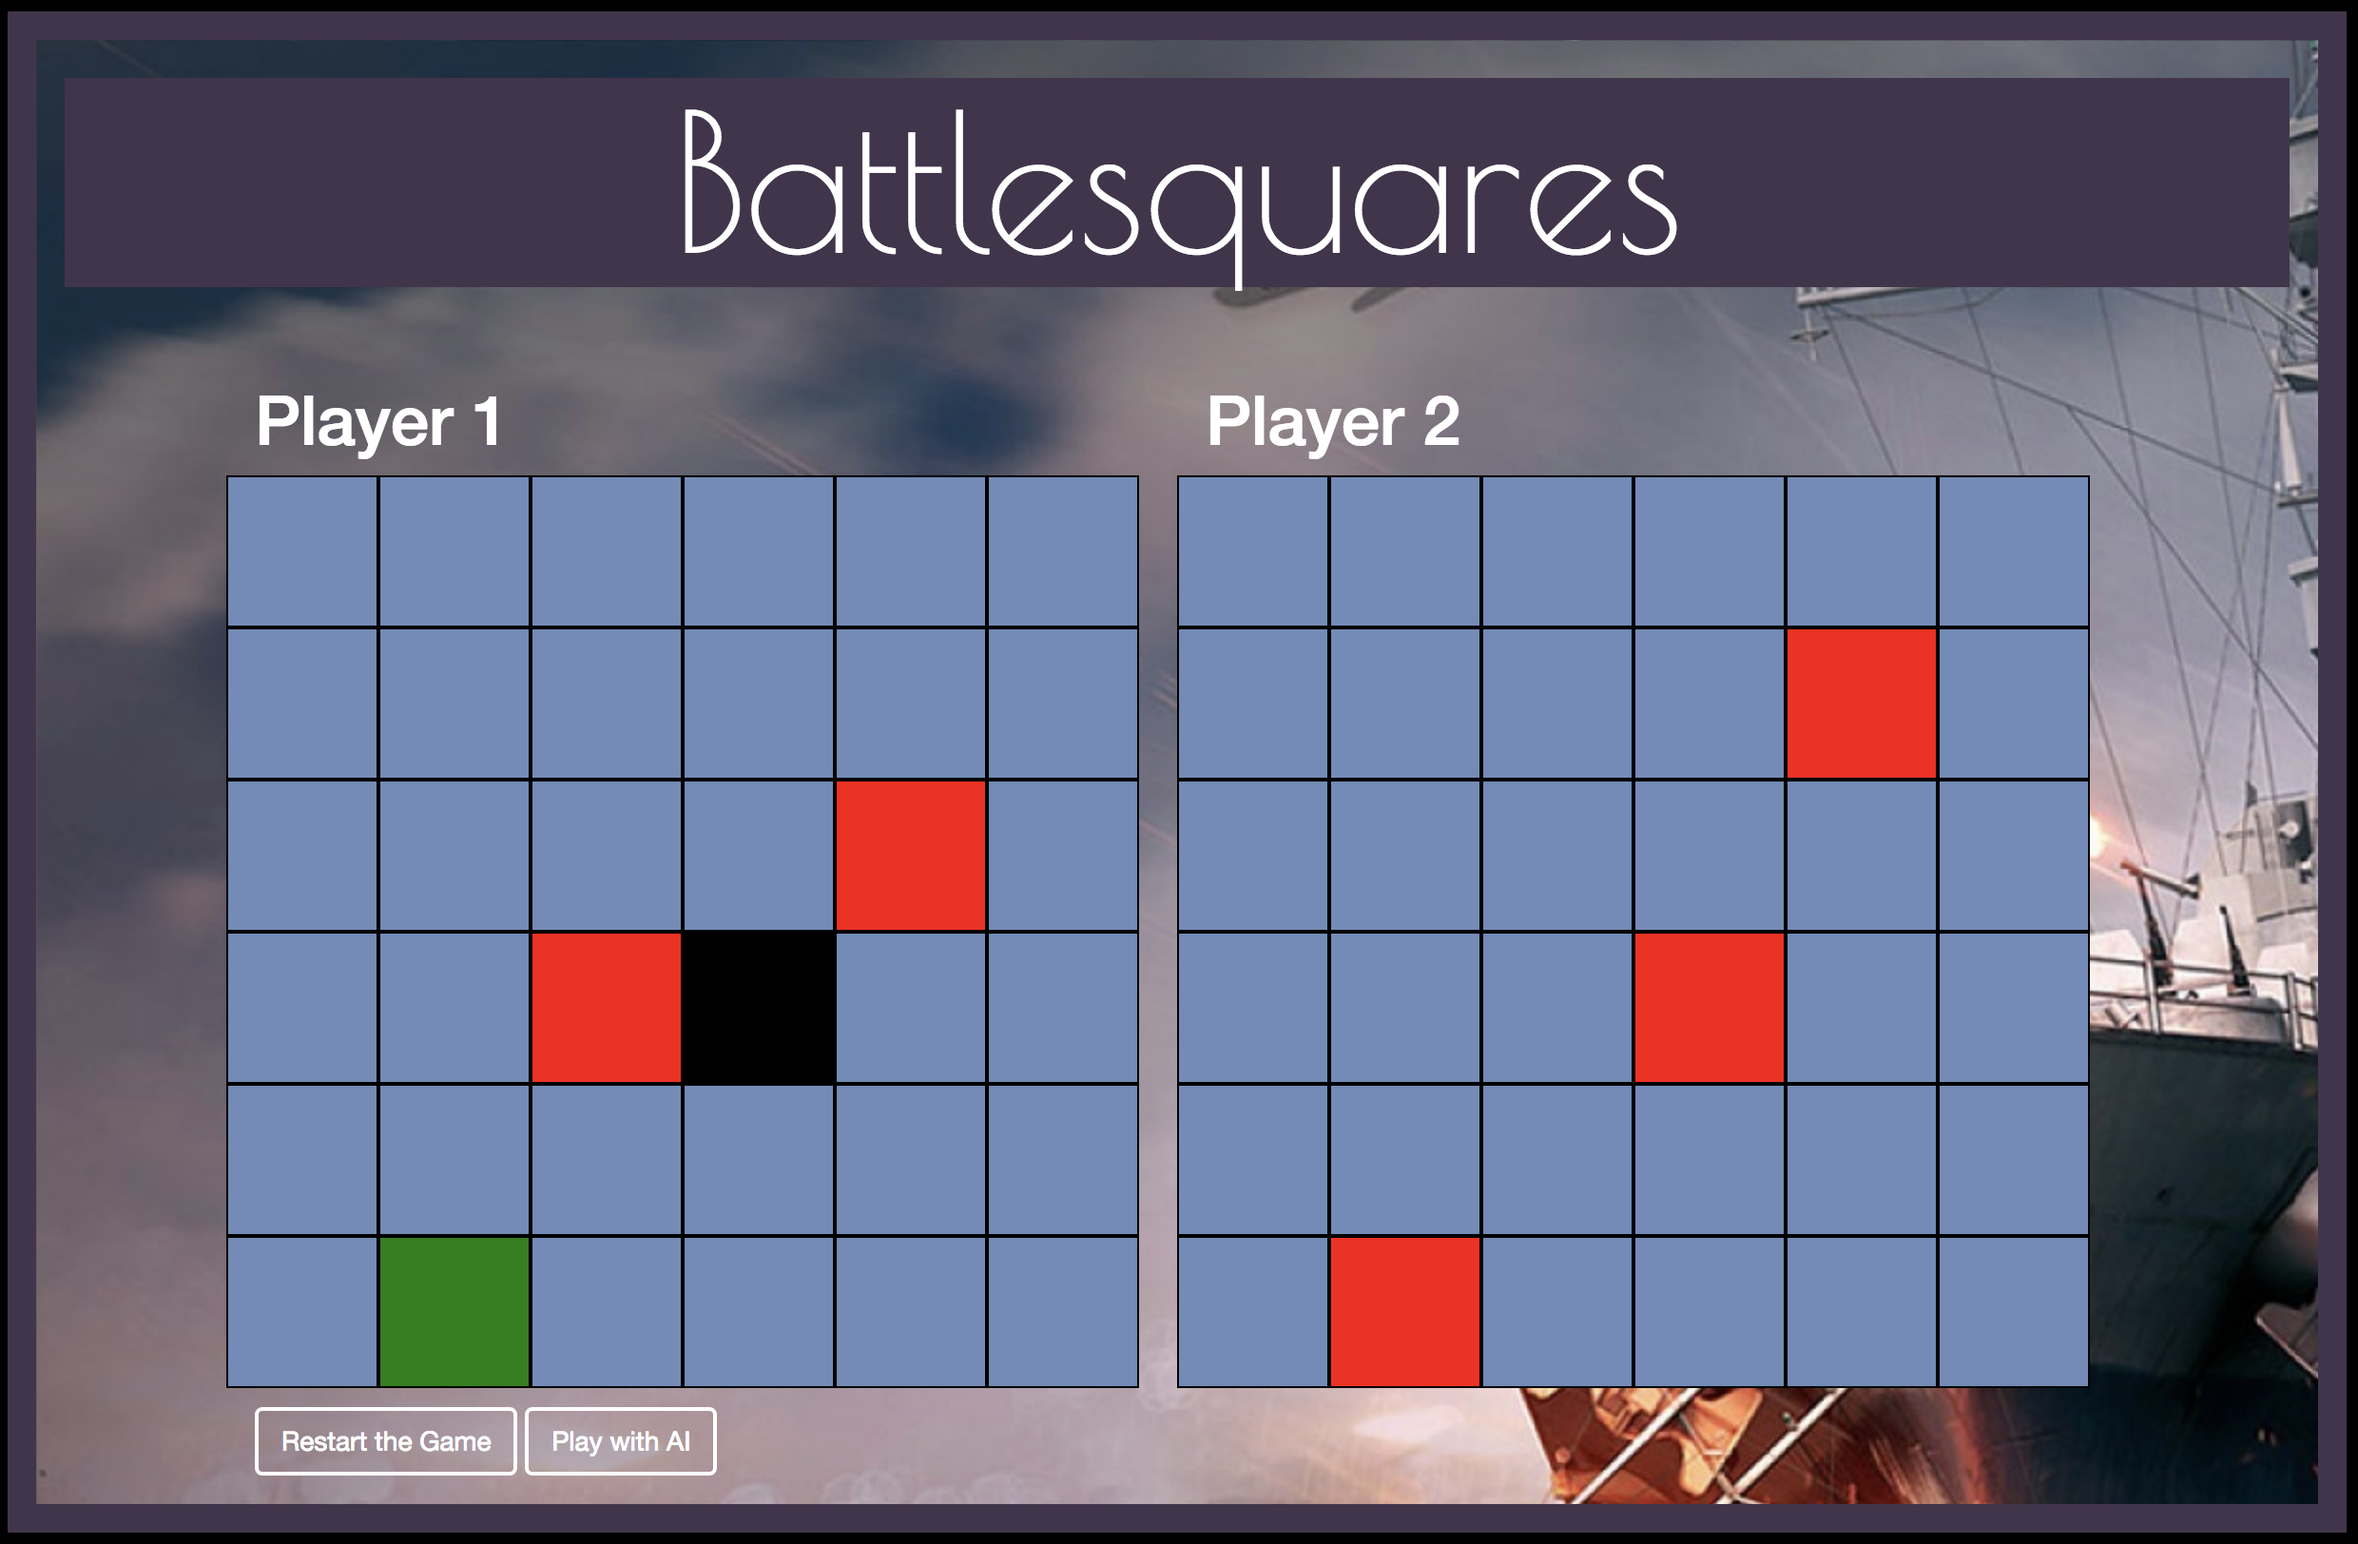
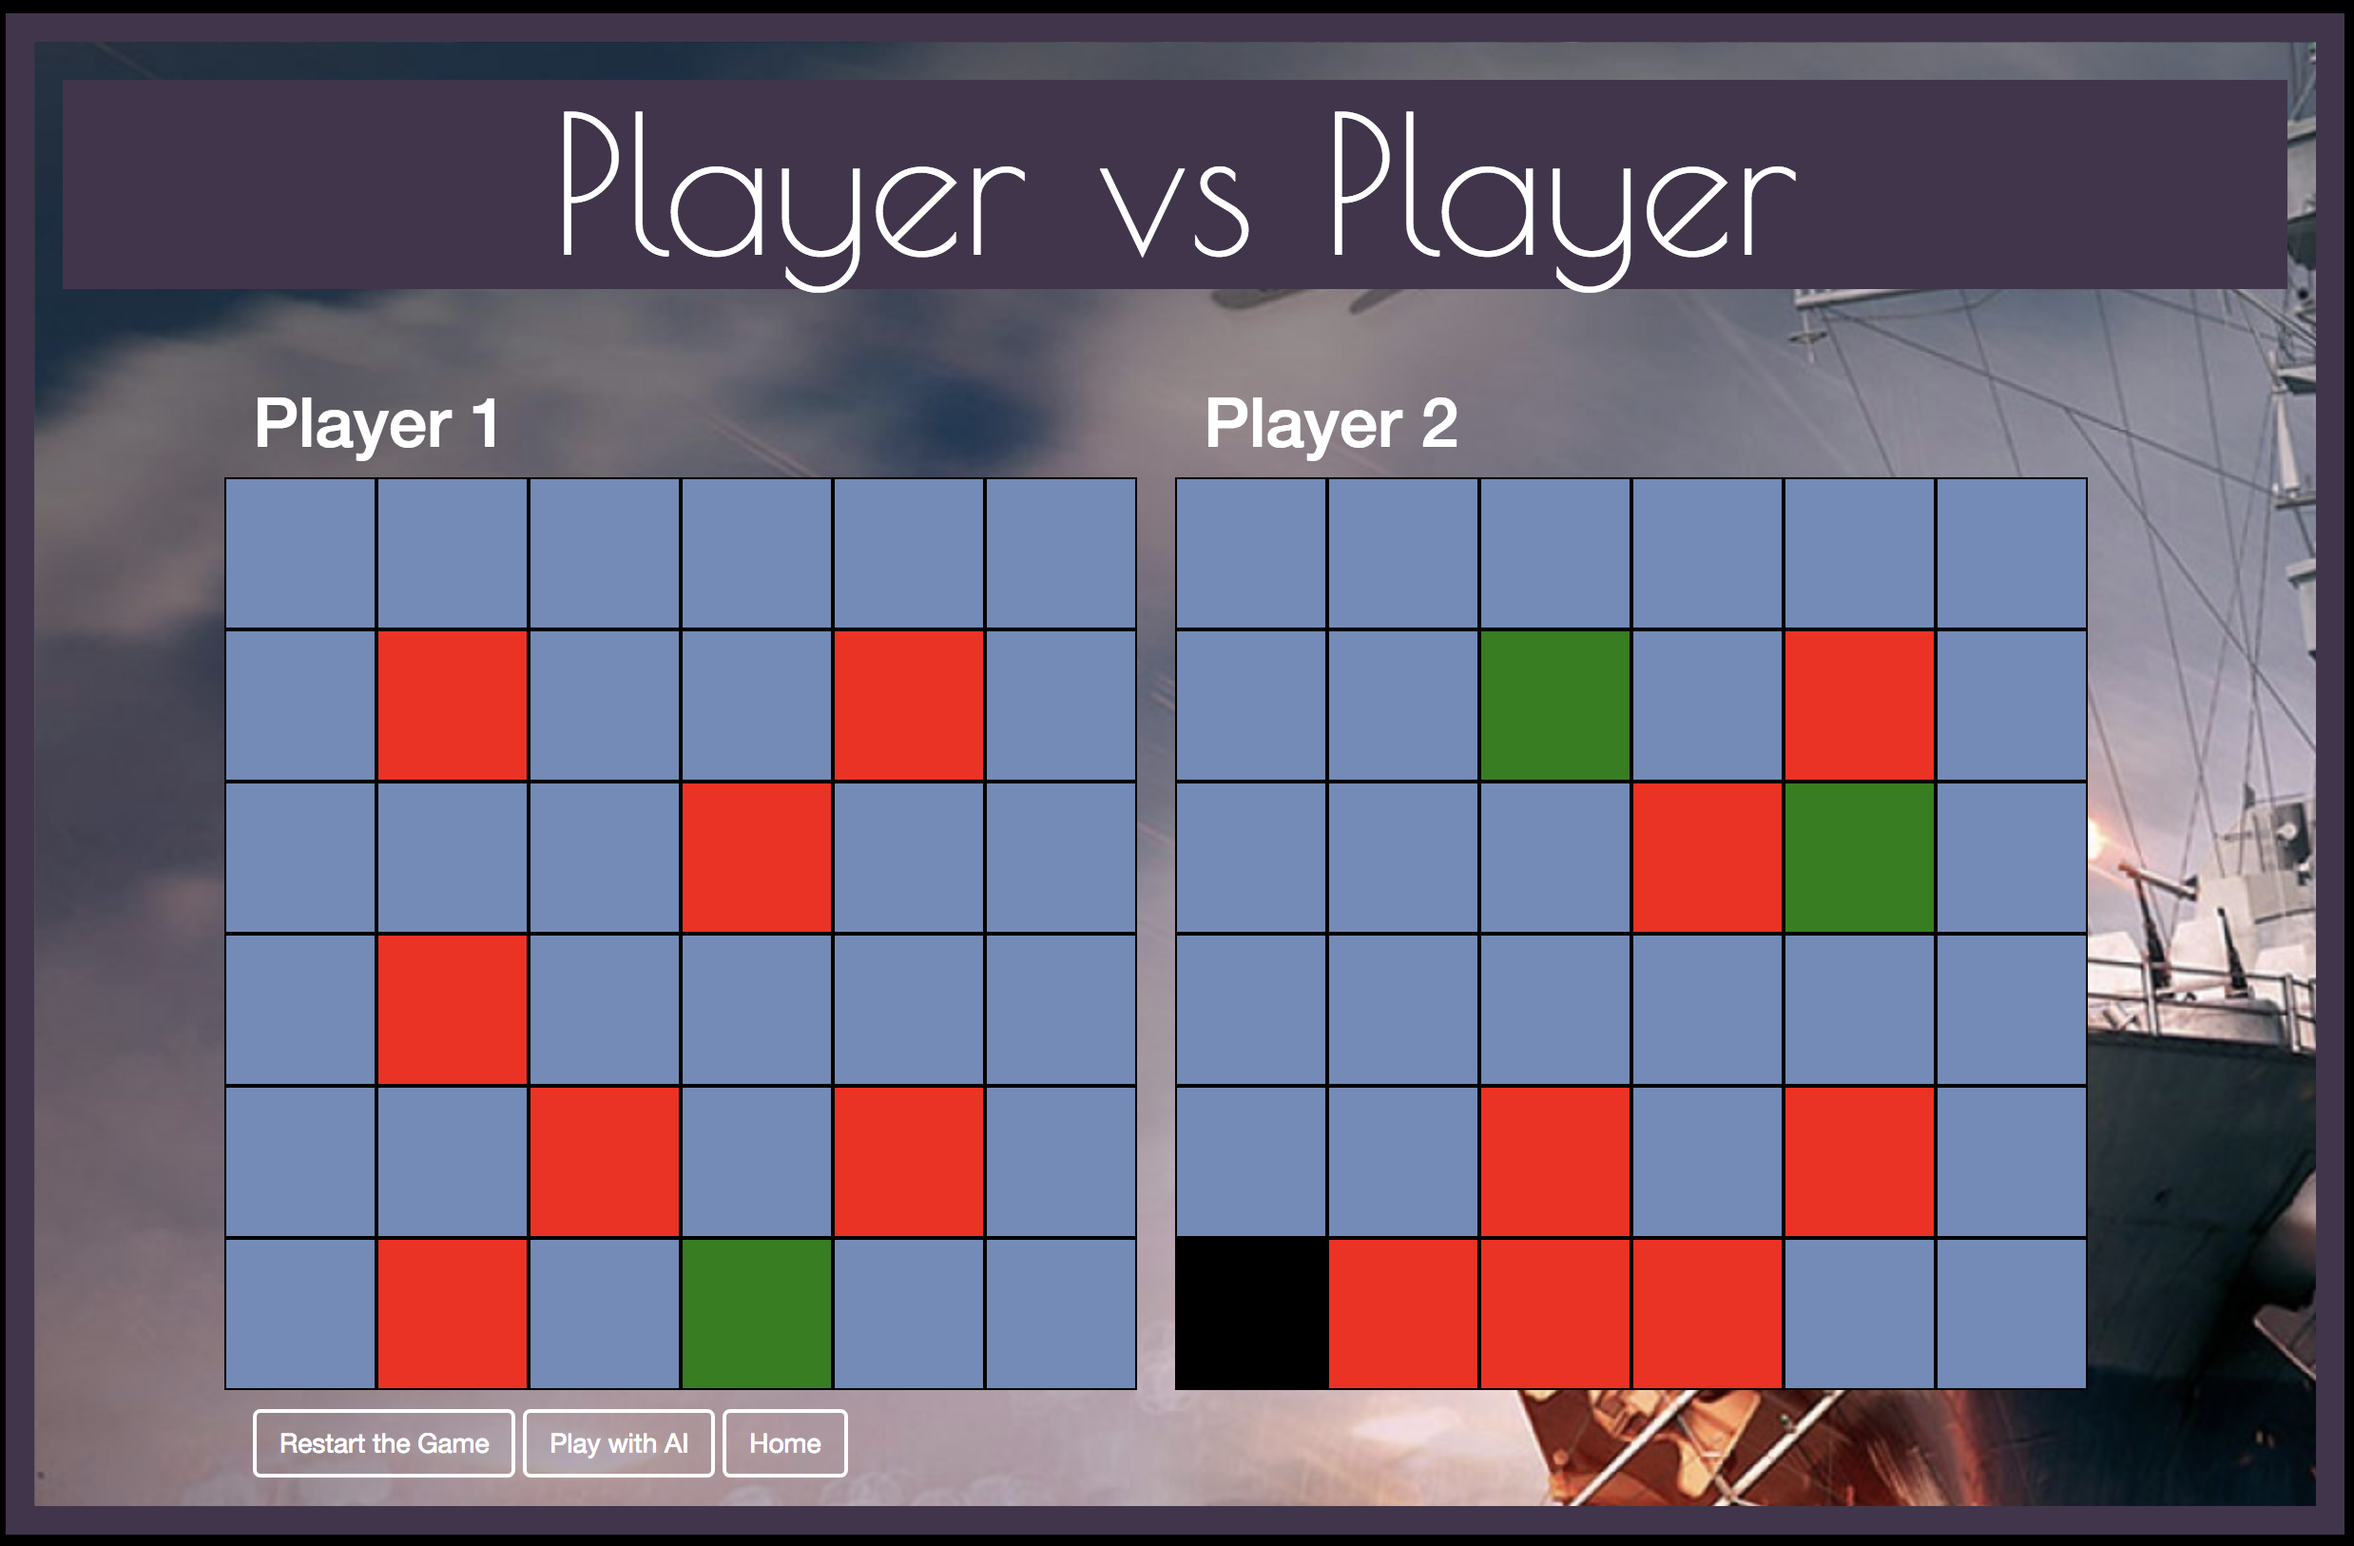
Working again with checkboxes

diff --git a/Bship-Day1/js/scripts.js b/Bship-Day1/js/scripts.js
@@ -137,20 +137,21 @@ $(document).ready(function() {
   $(".playerA").text(player1.playerName);
   $(".playerB").text(player2.playerName);
   boxCk();
-  $("#ac1, #ac2 , #ac3, #ac4, #ac5, #ac6, #ac7, #ac10 , #ac15, #ac16, #ac21, #ac22, #ac8, #ac11 , #ac14, #ac17, #ac20, #ac23, #ac9, #ac12 , #ac13, #ac18, #ac19, #ac24, #ac25, #ac26, #ac27, #ac28, #ac29, #ac30, #ac36, #ac35, #ac34, #ac33, #ac32, #ac31").click(function(){
-    $(this).find("input[type=checkbox]").attr("checked", true);
-    $(this).addClass("select");
-  });
+  
+  // $("#ac1, #ac2 , #ac3, #ac4, #ac5, #ac6, #ac7, #ac10 , #ac15, #ac16, #ac21, #ac22, #ac8, #ac11 , #ac14, #ac17, #ac20, #ac23, #ac9, #ac12 , #ac13, #ac18, #ac19, #ac24, #ac25, #ac26, #ac27, #ac28, #ac29, #ac30, #ac36, #ac35, #ac34, #ac33, #ac32, #ac31").click(function(){
+  //   $(this).find("input[type=checkbox]").attr("checked", true);
+  //   $(this).addClass("select");
+  // });
 
   $("form.player1Board").submit(function(event){
      event.preventDefault();
      player1Value = checking("player1",player1Value,board1);
    });
 
-   $("#bc1, #bc2 , #bc3, #bc4, #bc5, #bc6, #bc7, #bc10 , #bc15, #bc16, #bc21, #bc22, #bc8, #bc11 , #bc14, #bc17, #bc20, #bc23, #bc9, #bc12 , #bc13, #bc18, #bc19, #bc24, #bc25, #bc26, #bc27, #bc28, #bc29, #bc30, #bc36, #bc35, #bc34, #bc33, #bc32, #bc31").click(function(){
-     $(this).find("input[type=checkbox]").attr("checked", true);
-     $(this).addClass("select");
-   });
+  //  $("#bc1, #bc2 , #bc3, #bc4, #bc5, #bc6, #bc7, #bc10 , #bc15, #bc16, #bc21, #bc22, #bc8, #bc11 , #bc14, #bc17, #bc20, #bc23, #bc9, #bc12 , #bc13, #bc18, #bc19, #bc24, #bc25, #bc26, #bc27, #bc28, #bc29, #bc30, #bc36, #bc35, #bc34, #bc33, #bc32, #bc31").click(function(){
+  //    $(this).find("input[type=checkbox]").attr("checked", true);
+  //    $(this).addClass("select");
+  //  });
   $("form.player2Board").submit(function(event){
       event.preventDefault();
       player2Value = checking("player2",player2Value,board2);

diff --git a/Bship-Day1/js/computerScripts.js b/Bship-Day1/js/computerScripts.js
@@ -125,10 +125,21 @@ $(document).ready(function(){
   $("span").text(player1);
   boxCk();
 
-  $("#c1, #c2 , #c3, #c4, #c5, #c6, #c7, #c10 , #c15, #c16, #c21, #c22, #c8, #c11 , #c14, #c17, #c20, #c23, #c9, #c12 , #c13, #c18, #c19, #c24, #c25, #c26, #c27, #c28, #c29, #c30, #c36, #c35, #c34, #c33, #c32, #c31").click(function() {
-    $(this).find("input[type=checkbox]").attr("checked", true);
-    $(this).addClass("select");
-  })
+
+  // $("#c1, #c2 , #c3, #c4, #c5, #c6, #c7, #c10 , #c15, #c16, #c21, #c22, #c8, #c11 , #c14, #c17, #c20, #c23, #c9, #c12 , #c13, #c18, #c19, #c24, #c25, #c26, #c27, #c28, #c29, #c30, #c36, #c35, #c34, #c33, #c32, #c31").click(function() {
+  //
+  //   var checkValue = $(this).is(":checked");
+  //   if ($(this).is(":checked")){
+  //     $(this).find("input[type=checkbox]").removeAttr("checked");
+  //     $(this).removeClass("select");
+  //   } else {
+  //     $(this).find("input[type=checkbox]").attr("checked", true);
+  //     $(this).addClass("select")
+  //     alert(checkValue)
+  //   }
+  //
+  // });
+
 
   $("form.player1Board").submit(function(event){
      event.preventDefault();

diff --git a/index.html b/index.html
@@ -46,8 +46,10 @@
             <li>Don't look at the screen when your oponent is selecting their squares.</li>
             <li>Take turns selecting squares, first person to select allo their opponents squares wins.</li>
           </ul>
-
-
+          <h3>Instructions to start:</h3>
+          <ul>
+            <li>Click Player vs Player or VS Computer to begin.</li>
+          </ul>
         </div>
       </div>
     </div>
@@ -57,7 +59,8 @@
 <div class="row">
   <div class="col-md-12">
     <div id="bottominfo">
-      <a href="bship-day1/index.html"><img src="img/picture3.png" width=250></a>
+
+      <a href="bship-day1/single.html"><img src="img/picture3.png" width=250></a>
       <a href="bship-day1/computer.html"><img src="img/picture4.png" width=250></a>
 
     </div>

diff --git a/Bship-Day1/computer.html b/Bship-Day1/computer.html
@@ -12,7 +12,7 @@
 <body>
   <div class="container">
     <div id="topper">
-      <h1>BattleSquares vs AI</h1>
+      <h1>VS Computer</h1>
     </div>
     <div class="player1">
       <form class="player1Board">
@@ -327,7 +327,8 @@
         </div>
       </form>
       <button type="button" name="button" id="restart" class="btn btn-info">Restart the Game</button>
-      <button type="button" class="btn btn-info" onclick="location.href='index.html';">Play with Friend!</button>
+      <button type="button" class="btn btn-info" onclick="location.href='single.html';">Play with Friend!</button>
+      <button type="button" class="btn btn-info" onclick="location.href='../index.html';">Home</button>
       <br>
       </div>
     </div>

diff --git a/Bship-Day1/single.html b/Bship-Day1/single.html
@@ -12,7 +12,7 @@
 <body>
   <div class="container">
     <div id="topper">
-      <h1>Battlesquares</h1>
+      <h1>Player vs Player</h1>
     </div>
     <div class="player1">
       <form class="player1Board">
@@ -455,6 +455,7 @@
       </div>
       <button type="button" name="button" id="restart" class="btn btn-transparent">Restart the Game</button>
       <button type="button" class="btn btn-transparent" onclick="location.href='computer.html';">Play with AI</button>
+      <button type="button" class="btn btn-transparent" onclick="location.href='../index.html';">Home</button>
     </div>
   </div>
 </body>

diff --git a/css/styles.css b/css/styles.css
@@ -20,7 +20,7 @@ body {
 
 #teaminfo {
   background-color:#4c4159;
-  height:490px;
+  height:590px;
   border-top: 5px solid #fff;
   border-bottom: 5px solid #fff;
   border-left:5px solid #66bab0;
@@ -28,7 +28,7 @@ body {
 
 #projectinfo {
   background-color:#4c4159;
-  height:490px;
+  height:590px;
   border:5px solid #fff;
   border-right: 5px solid #66bab0;
 }

diff --git a/Bship-Day1/css/styles.css b/Bship-Day1/css/styles.css
@@ -52,17 +52,17 @@ body {
   color:white;
 }
 
-input {
+/*input {
   display: none;
-}
+}*/
 
 .col-md-2 {
   background-color:#6d8bba;
 }
 
-.select {
+/*.select {
   background-color:orange;
-}
+}*/
 
 #a1, #a2 , #a3, #a4, #a5, #a6,
 #a7, #a10 , #a15, #a16, #a21, #a22,

diff --git a/Bship-Day1/css/computerstyles.css b/Bship-Day1/css/computerstyles.css
@@ -24,9 +24,9 @@ body {
  background-repeat: no-repeat;
 }
 
-input {
+/*input {
   display: none;
-}
+}*/
 
 .player2 {
   margin-left:100px;
@@ -159,6 +159,6 @@ form {
   margin-bottom:10px;
 }
 
-.select {
+/*.select {
   background-color: orange;
-}
+}*/
